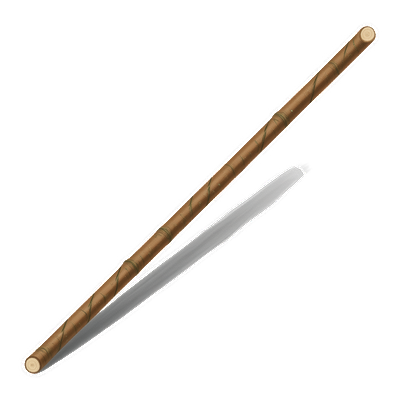
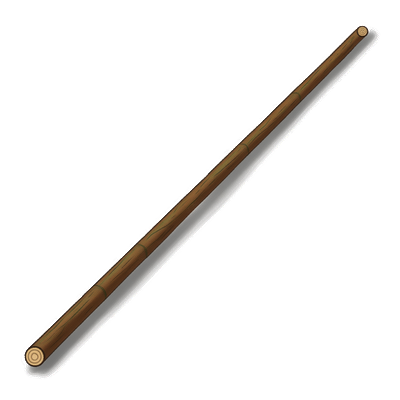
一次レビューの指摘を直し、長い棒の絵を竹ではない版へ差し替える
杭の材料の記述が、同じ文書の中で食い違っていた。TrapSystem.md 8節を「長い棒が入った
後も太い枝のまま」へ書き換えたのに、1.2節の表と、その下の「掘った穴に長い棒を立てれば」は
元のままだった。どちらも実際の材料へ直す。

若木と長い棒の太さも食い違っていた。若木を「幹4m・根元4cm」、そこから採る2mを「親指ほど」と
書いており、同じ木の同じ場所が2つの太さを名乗っていた。若木を3.5m・根元3cm・1.2kgへ揃え、
採れる2mがちょうど半分になる形にする。

絵は竹に見えていた。太さが端まで変わらない棒を渡すと、編集は等間隔の節を回す——本文で
節も輪も無いと否定しても6枚とも残った。下絵の側を根元から梢へ細らせると、同じ本文のまま
消える。細りは若木の幹であることの証拠なので、言葉で否定するより効く。

冒頭に足した表は下の定義を書き写した列挙だったので、分かれ目を規則として書く形へ戻す。
draw_cut_face は、端を折れ口と呼ぶ draw_branch からも呼ばれているので draw_end_grain へ。

Claude-Session: https://claude.ai/code/session_01Tdz2713wELpUzL4o6cHRrF

Changed region(s): [[0.06, 0.06, 0.96, 0.96]]

diff --git a/tools/comfyui/layout_sketch.py b/tools/comfyui/layout_sketch.py
@@ -43,8 +43,8 @@ TARO_RING = (170, 142, 110)
 PAGE = (255, 255, 255)
 
 
-def draw_cut_face(draw: ImageDraw.ImageDraw, centre: tuple[float, float], radius: float) -> None:
-    """切り口を1つ。淡い木口に年輪を入れて、樹皮に覆われた胴と見分ける。"""
+def draw_end_grain(draw: ImageDraw.ImageDraw, centre: tuple[float, float], radius: float) -> None:
+    """端の木口を1つ。淡い面に年輪を入れて、樹皮に覆われた胴と見分ける。"""
     x, y = centre
     draw.ellipse([x - radius, y - radius, x + radius, y + radius], fill=FACE, outline=OUTLINE, width=4)
     for ring in (0.66, 0.36):
@@ -72,7 +72,7 @@ def draw_branch(
         fill=BARK_DARK,
         width=thickness // 3,
     )
-    draw_cut_face(draw, (end_x, end_y), thickness // 2)
+    draw_end_grain(draw, (end_x, end_y), thickness // 2)
 
 
 def draw_stone(
@@ -515,17 +515,43 @@ def draw_pole(draw: ImageDraw.ImageDraw) -> None:
     """長い棒。若木を切った2mの棒（src/assets/world-codex/timber.yaml）。
 
     **丸太と同じで、姿勢と太さは生成では決まらない**（prompts/objects.json の log 参照）ので、
-    ここで決める。分けたい相手は3つあり、それぞれ別の点で分かれる——丸太とは太さ、太い枝とは
-    長さと「端まで同じ太さ」、槍とは穂先と紐が無いこと。対角線いっぱいに寝かせるのは槍と同じ
-    理由で、2mという長さが見せ場だから（card_art.py の align_to_diagonal）。
+    ここで決める。紛れる相手それぞれと、分かれる点が違う——丸太とは太さ、太い枝とは長さと
+    真っ直ぐさ、槍とは穂先と紐が無いこと。対角線いっぱいに寝かせるのは槍と同じ理由で、2mという
+    長さが見せ場だから（card_art.py の align_to_diagonal）。
 
-    **両端に切り口を置く。** 拾った太い枝の端は折れ口だが、こちらは刃物で断って枝を払った棒。
+    **両端に木口を置く。** 拾った太い枝は伸びた先の1つだけだが、こちらは根元も梢も刃物で断っている。
+
+    **根元から梢へ細らせる。** 太さが端まで変わらない棒を渡すと、編集は節を回して竹にする
+    （recipes/long_pole.json）。細りは若木の幹であることの証拠で、言葉で否定するより効く。
     """
     near, far = (140.0, 790.0), (1010.0, 190.0)
     span = math.hypot(far[0] - near[0], far[1] - near[1])
-    thickness = 38
-    draw_branch(draw, near, ((far[0] - near[0]) / span, (far[1] - near[1]) / span), span, thickness)
-    draw_cut_face(draw, near, thickness // 2)
+    dx, dy = (far[0] - near[0]) / span, (far[1] - near[1]) / span
+    nx, ny = -dy, dx
+    near_half, far_half = 23.0, 13.0
+    draw.polygon(
+        [
+            (near[0] + nx * near_half, near[1] + ny * near_half),
+            (far[0] + nx * far_half, far[1] + ny * far_half),
+            (far[0] - nx * far_half, far[1] - ny * far_half),
+            (near[0] - nx * near_half, near[1] - ny * near_half),
+        ],
+        fill=BARK,
+        outline=OUTLINE,
+        width=4,
+    )
+    # 影の側。丸みが無いと、棒が板に見える。
+    draw.polygon(
+        [
+            (near[0] + nx * near_half, near[1] + ny * near_half),
+            (far[0] + nx * far_half, far[1] + ny * far_half),
+            (far[0] + nx * far_half * 0.3, far[1] + ny * far_half * 0.3),
+            (near[0] + nx * near_half * 0.3, near[1] + ny * near_half * 0.3),
+        ],
+        fill=BARK_DARK,
+    )
+    draw_end_grain(draw, near, near_half)
+    draw_end_grain(draw, far, far_half)
 
 
 def draw_harpoon(draw: ImageDraw.ImageDraw) -> None:

diff --git a/docs/engine/TrapSystem.md b/docs/engine/TrapSystem.md
@@ -112,7 +112,7 @@ object_defs:
 |  | 殺す（5.1 節） | 生かす（5.2 節） |
 |---|---|---|
 | **小型** | `snare` くくり罠（繊維だけ）**←実装済み** | `box_trap` かご罠（編み籠＋繊維） |
-| **中型** | 杭を打った落とし穴（掘削具＋長い棒）**←実装済み** | `pitfall` 落とし穴（掘削具）**←実装済み** |
+| **中型** | 杭を打った落とし穴（掘削具＋太い枝）**←実装済み** | `pitfall` 落とし穴（掘削具）**←実装済み** |
 | **大型** | 同上 | 同上、および `pen` 檻（木材＋縄）**←実装済み** |
 
 - **生かす側が常に高くつきます。** 締めつけるだけの輪と、閉じ込めておける箱では要る材料が違い、
@@ -147,7 +147,7 @@ object_defs:
 **この 1 つの型が、生かす罠から飼いならしへの道（5.2 節）を継ぎ目なしにします。** 掛かった獣は
 拘束されたまま警戒を引き切り（5 節）、そのとき既に囲いの中に居ます——**檻から囲いへ移し替える操作は
 要りません**。「生け捕りにして待つ」と「家畜を飼う」が、同じ枠の中の時間の経過だけで繋がります。
-- **落とし穴は 1 つの型を杭で分岐させます。** 掘った穴に長い棒を立てれば殺す罠になる、という
+- **落とし穴は 1 つの型を杭で分岐させます。** 掘った穴に太い枝を杭として立てれば殺す罠になる、という
   ドラッグ型の操作 1 つで、中型と大型の両方の「殺す」欄が埋まります。**杭が変えるのは、掛かった相手へ
   刺さる怪我だけです**（5.1 節）——穴も、掛かる候補も、タイマーもそのままです。杭を打った版は
   `stake` 軸の変種（[`GameElementDefinition.md`](./GameElementDefinition.md) 3.5.1 節）で、**同じ個体の
